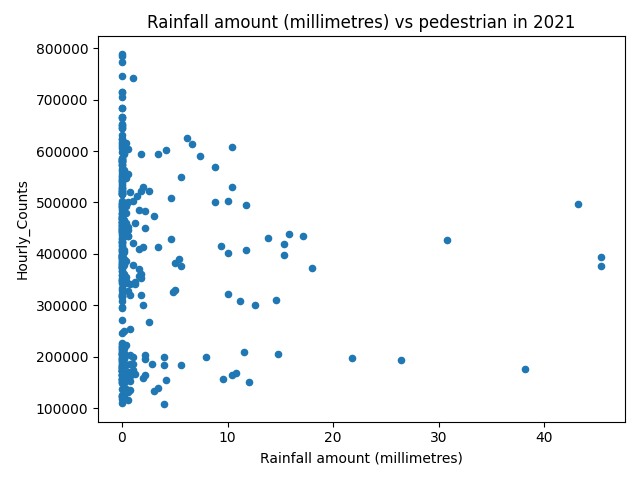
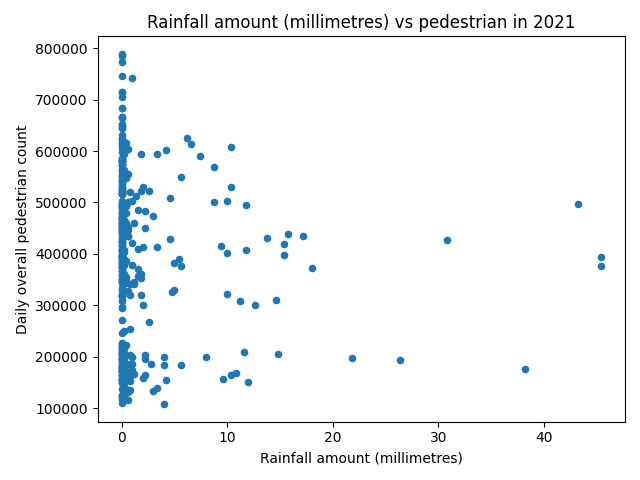
change graph labels

diff --git a/solution.py b/solution.py
@@ -140,6 +140,7 @@ def pedestrian_scatter(dataframe, year1, year2, x_axis):
     daily_overall_2021.plot.scatter(
         x=x_axis, y="Hourly_Counts",
         title=x_axis + " vs pedestrian in " + str(year1))
+    plt.ylabel("Daily overall pedestrian count")
     plt.tight_layout()
     plt.savefig(str(year1) + '_scatter_plot_' + x_axis[:20] + '.png')
 
@@ -147,6 +148,7 @@ def pedestrian_scatter(dataframe, year1, year2, x_axis):
     daily_overall_2022.plot.scatter(
         x=x_axis, y="Hourly_Counts",
         title=x_axis + " vs pedestrian in " + str(year2))
+    plt.ylabel("Daily overall pedestrian count")
     plt.tight_layout()
     plt.savefig(str(year2) + '_scatter_plot_' + x_axis[:20] + '.png')
 
